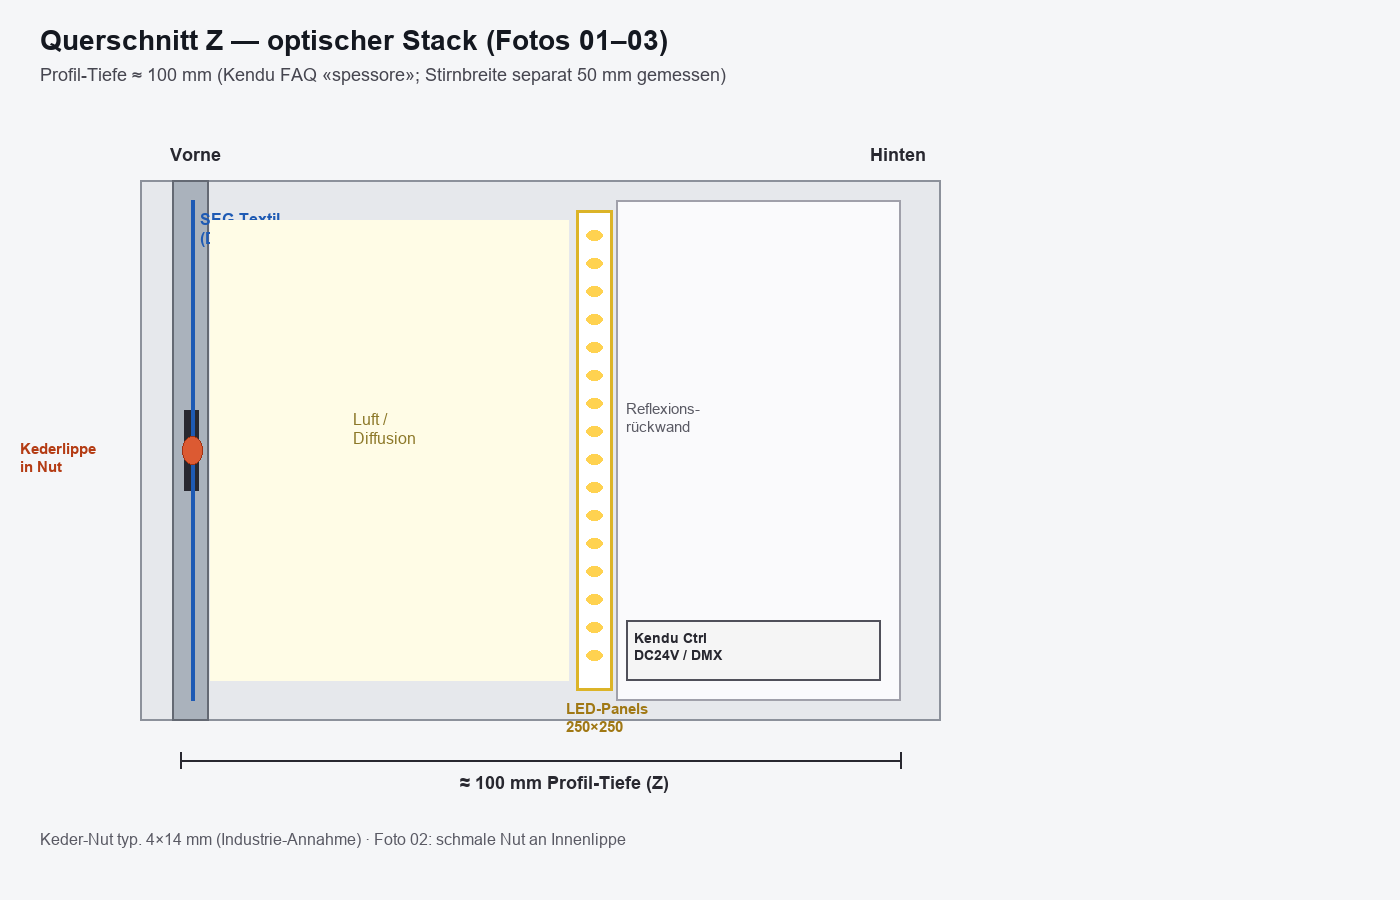
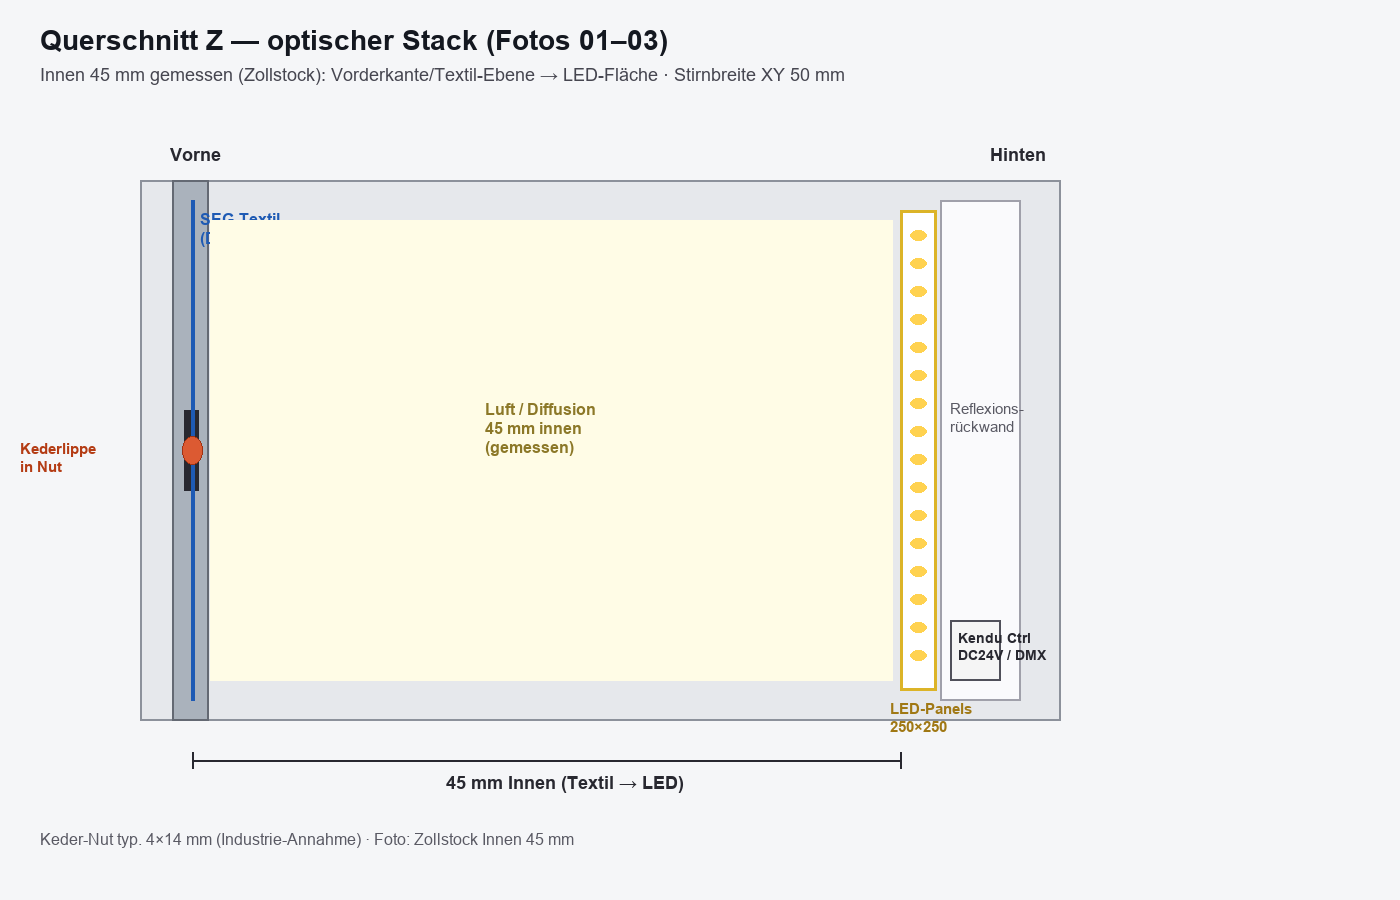
Set measured inner depth Textil-to-LED at 45 mm.
Replace FAQ ~100 mm Z estimate with Zollstock Innen 4.5 cm; refresh
3D schematics and Richnerstutz geometry docs.

diff --git a/WerbeLEDbox-CountDown/scripts/gen_lightbox_3d_schema.py b/WerbeLEDbox-CountDown/scripts/gen_lightbox_3d_schema.py
@@ -18,6 +18,7 @@ if str(PROJ) not in sys.path:
 
 from kendu_flowbox_spec import (  # noqa: E402
     FACE_MM,
+    INNER_DEPTH_MM,
     OUTER_MM,
     PROFILE_DEPTH_MM,
     PROFILE_FACE_W_MM,
@@ -96,28 +97,29 @@ def draw_cross_section(w: int = 1400, h: int = 900) -> Image.Image:
     d.text((40, 24), "Querschnitt Z — optischer Stack (Fotos 01–03)", fill=(20, 24, 32), font=font(28, True))
     d.text(
         (40, 64),
-        f"Profil-Tiefe ≈ {PROFILE_DEPTH_MM:.0f} mm (Kendu FAQ «spessore»; Stirnbreite separat {PROFILE_FACE_W_MM:.0f} mm gemessen)",
+        f"Innen {INNER_DEPTH_MM:.0f} mm gemessen (Zollstock): Vorderkante/Textil-Ebene → LED-Fläche · Stirnbreite XY {PROFILE_FACE_W_MM:.0f} mm",
         fill=(70, 70, 80),
         font=font(18),
     )
 
-    # Draw a horizontal section through left profile + face
-    # Coordinates: left = front (viewer), right = back
+    # Draw a horizontal section: left = front (viewer), right = back
+    # Scale so measured 45 mm cavity fills most of the diagram depth
     front_x = 180
     depth_px = 720
-    scale_z = depth_px / PROFILE_DEPTH_MM
+    scale_z = depth_px / INNER_DEPTH_MM
     top = 180
     bot = 720
     mid = (top + bot) // 2
 
-    # Aluminium profile U-ish: front lip, outer wall, back
     alu = (170, 178, 188)
-    d.rectangle([front_x - 40, top, front_x + depth_px + 40, bot], fill=(230, 232, 236), outline=(140, 145, 155), width=2)
+    # Cavity extent (front lip → LED)
+    led_x = front_x + int(INNER_DEPTH_MM * scale_z)
+    back_x = led_x + 120  # panel + reflector schematic behind LED face
+
+    d.rectangle([front_x - 40, top, back_x + 40, bot], fill=(230, 232, 236), outline=(140, 145, 155), width=2)
 
     # Front face rim + keder groove
-    lip_w = int(PROFILE_FACE_W_MM * 0.6)  # schematic
     d.rectangle([front_x - 8, top, front_x + 28, bot], fill=alu, outline=(100, 105, 115), width=2)
-    # Keder channel notch
     groove_y0 = mid - 40
     groove_y1 = mid + 40
     d.rectangle([front_x + 4, groove_y0, front_x + 18, groove_y1], fill=(40, 40, 48))
@@ -131,10 +133,14 @@ def draw_cross_section(w: int = 1400, h: int = 900) -> Image.Image:
     d.ellipse([front_x + 2, mid - 14, front_x + 22, mid + 14], fill=(220, 90, 50), outline=(160, 50, 20))
     d.text((front_x - 160, mid - 10), "Kederlippe\nin Nut", fill=(180, 60, 20), font=font(15, True))
 
-    # Air / diffusion gap
-    led_x = front_x + int(PROFILE_DEPTH_MM * 0.55 * scale_z)
+    # Air / diffusion gap = measured Innen 45 mm
     d.rectangle([front_x + 30, top + 40, led_x - 8, bot - 40], fill=(255, 252, 230))
-    d.text(((front_x + 30 + led_x) // 2 - 40, mid - 40), "Luft /\nDiffusion", fill=(140, 120, 40), font=font(16))
+    d.text(
+        ((front_x + 30 + led_x) // 2 - 70, mid - 50),
+        f"Luft / Diffusion\n{INNER_DEPTH_MM:.0f} mm innen\n(gemessen)",
+        fill=(140, 120, 40),
+        font=font(16, True),
+    )
 
     # LED panel plane
     d.rectangle([led_x, top + 30, led_x + 36, bot - 30], fill=(255, 255, 255), outline=(220, 180, 40), width=3)
@@ -142,32 +148,30 @@ def draw_cross_section(w: int = 1400, h: int = 900) -> Image.Image:
         d.ellipse([led_x + 10, y, led_x + 26, y + 10], fill=(255, 210, 80))
     d.text((led_x - 10, bot - 20), "LED-Panels\n250×250", fill=(160, 120, 20), font=font(15, True))
 
-    # White reflector / back
-    back_x = front_x + depth_px
+    # White reflector / back behind LEDs
     d.rectangle([led_x + 40, top + 20, back_x, bot - 20], fill=(250, 250, 252), outline=(160, 160, 170), width=2)
     d.text((led_x + 50, mid - 50), "Reflexions-\nrückwand", fill=(90, 90, 100), font=font(15))
 
-    # Controllers at bottom of section
     d.rectangle([led_x + 50, bot - 100, back_x - 20, bot - 40], fill=(245, 245, 245), outline=(80, 80, 90), width=2)
     d.text((led_x + 58, bot - 90), "Kendu Ctrl\nDC24V / DMX", fill=(40, 40, 48), font=font(14, True))
 
     d.text((back_x - 30, top - 36), "Hinten", fill=(40, 40, 48), font=font(18, True))
 
-    # Depth dimension
+    # Depth dimension: front → LED (= Innen 45 mm)
     y_dim = bot + 40
-    d.line([front_x, y_dim, back_x, y_dim], fill=(40, 40, 48), width=2)
-    d.line([front_x, y_dim - 8, front_x, y_dim + 8], fill=(40, 40, 48), width=2)
-    d.line([back_x, y_dim - 8, back_x, y_dim + 8], fill=(40, 40, 48), width=2)
+    d.line([front_x + 12, y_dim, led_x, y_dim], fill=(40, 40, 48), width=2)
+    d.line([front_x + 12, y_dim - 8, front_x + 12, y_dim + 8], fill=(40, 40, 48), width=2)
+    d.line([led_x, y_dim - 8, led_x, y_dim + 8], fill=(40, 40, 48), width=2)
     d.text(
-        ((front_x + back_x) // 2 - 80, y_dim + 12),
-        f"≈ {PROFILE_DEPTH_MM:.0f} mm Profil-Tiefe (Z)",
+        ((front_x + 12 + led_x) // 2 - 100, y_dim + 12),
+        f"{INNER_DEPTH_MM:.0f} mm Innen (Textil → LED)",
         fill=(40, 40, 48),
         font=font(18, True),
     )
 
     d.text(
         (40, h - 70),
-        f"Keder-Nut typ. {KEDER_GROOVE_W_MM:.0f}×{KEDER_GROOVE_D_MM:.0f} mm (Industrie-Annahme) · Foto 02: schmale Nut an Innenlippe",
+        f"Keder-Nut typ. {KEDER_GROOVE_W_MM:.0f}×{KEDER_GROOVE_D_MM:.0f} mm (Industrie-Annahme) · Foto: Zollstock Innen {INNER_DEPTH_MM:.0f} mm",
         fill=(90, 90, 100),
         font=font(16),
     )

diff --git a/WerbeLEDbox-CountDown/kendu_flowbox_spec.py b/WerbeLEDbox-CountDown/kendu_flowbox_spec.py
@@ -5,11 +5,11 @@ Measured XY (2026-07-22):
 - Outer frame: **2100 × 2100 mm**
 - Face rim / Profil-Stirnbreite: **50 mm** → print/LED face **2000 × 2000 mm**
 
-Photo + Kendu geometry (Z / depth):
+Photo + measured Z / depth:
 - True **backlit** stack (LEDs on rear plane, not edge-lit)
 - SEG keder groove on the **front inner lip** of the aluminium profile
-- Kendu FAQ «profile width/spessore» = **~100 mm depth** (Z), distinct from our
-  measured 50 mm face rim — see GEOMETRIE-3D.md
+- **Innen 45 mm** measured (Zollstock): front lip / textile plane → LED panel face
+- Face rim 50 mm (XY) remains distinct from this Z cavity — see GEOMETRIE-3D.md
 
 Logical content grid (AnkerPI02 custom WS2812 retrofit):
 
@@ -27,14 +27,17 @@ PROFILE_W_MM = PROFILE_FACE_W_MM  # back-compat: generators mean face rim
 OUTER_MM = 2100.0
 MODULE_PITCH_MM_CONFIRMED = 250.0
 
-# --- Z / depth (photo + Kendu FAQ; confirm with side measurement) ---
-# Italian FAQ: «Che spessore ha il profilo?» → 100 mm (= box depth, not face rim)
-PROFILE_DEPTH_MM = 100.0  # front textile plane → back of profile (typical Flowbox)
-PROFILE_DEPTH_SOURCE = "kendu-faq-spessore + photo backlit stack"
+# --- Z / depth (measured 2026-07-22, Zollstock photos «Innen 4.5 cm») ---
+# Optically relevant cavity: front inner lip (≈ textile / keder plane) → LED face
+INNER_DEPTH_MM = 45.0  # measured
+LED_RECESS_MM = INNER_DEPTH_MM  # alias
+# Full outer profile depth may be slightly larger behind the LED plane; cavity is 45 mm.
+PROFILE_DEPTH_MM = INNER_DEPTH_MM  # use measured cavity for schematics / light path
+PROFILE_DEPTH_SOURCE = "measured-innen-45mm-zollstock"
 
-# Optical stack (front → back), qualitative from photos 01–03
+# Optical stack (front → back), from photos + measurement
 # 1) SEG textile in keder groove (front lip)
-# 2) air / diffusion gap
+# 2) air / diffusion gap ≈ 45 mm
 # 3) LED panel plane (8×8 × 250 mm) on white reflector
 # 4) back braces / controllers (Kendu CH1–4, DC 24V, DMX)
 

diff --git a/Richnerstutz-Bespannung-Paket/06-fotos-vom-rahmen/GEOMETRIE-3D.md b/Richnerstutz-Bespannung-Paket/06-fotos-vom-rahmen/GEOMETRIE-3D.md
@@ -2,47 +2,33 @@
 
 Schemata: `schema-front-xy.png` · `schema-querschnitt-z.png` · `schema-3d-geometrie.png`
 
-## Zwei verschiedene «Profil»-Maße (nicht verwechseln)
+## Maße
 
 | Größe | Wert | Bedeutung | Quelle |
 |-------|------|-----------|--------|
-| **Stirnbreite** (XY) | **50 mm** | Rahmenrand in der Frontansicht; Außen − Fläche | gemessen: (2100−2000)/2 |
-| **Profil-Tiefe** (Z) | **≈ 100 mm** | Bautiefe vorne→hinten («spessore») | Kendu-FAQ + Foto-Stack |
+| **Stirnbreite** (XY) | **50 mm** | Rahmenrand in der Frontansicht | gemessen: (2100−2000)/2 |
+| **Innen** (Z) | **45 mm** | Vorderkante / Textil-Ebene → LED-Oberfläche | Zollstock-Fotos «Innen 4.5 cm» |
 | Außenmaß XY | **2100 × 2100 mm** | inkl. Stirnbreite | gemessen |
 | Druck-/LED-Fläche XY | **2000 × 2000 mm** | innen, 8×8 Panels | gemessen |
-| LED-Panel | **250 × 250 mm** | flächige Module auf Rückwand | gemessen |
+| LED-Panel | **250 × 250 mm** | Module auf Rückwand («REMBRANDT») | gemessen |
 
-Früher fälschlich: Kendu-FAQ «profile width 100 mm» als Stirnbreite gelesen.  
-Italienische FAQ stellt klar: *spessore* = Dicke/Tiefe ≈ 100 mm. Unsere **50 mm** sind die sichtbare Stirnbreite.
+**Wichtig:** Die optisch relevante Diffusionsstrecke ist **45 mm innen**, nicht die frühere FAQ-Schätzung ~100 mm Profil-Gesamttiefe.
 
-## Optischer Stack (Vorne → Hinten) — aus Fotos 01–03
+## Optischer Stack (Vorne → Hinten)
 
 ```
 [ Betrachter ]
      │
      ▼
-1. SEG-Textil (Druck) — in Kedernut der Profil-Innenlippe eingespannt
-2. Kederschienenlippe (Silikon/Flachkeder) in umlaufender Nut (Foto 02, Gehrung)
-3. Luft- / Diffusionsstrecke innerhalb der Profil-Tiefe
-4. LED-Panel-Ebene — 8×8 × 250 mm, dicht gestoßen, weisse Reflexionsfläche (Foto 01/02)
-5. Rückwand / Verstrebungen + Kendu-Controller (DC 24V, DMX, CH1–4) (Foto 03)
+1. SEG-Textil (Druck) — in Kedernut der Profil-Innenlippe
+2. Kederschienenlippe in umlaufender Nut
+3. Luft- / Diffusionsstrecke = **45 mm** (gemessen)
+4. LED-Panel-Ebene — 8×8 × 250 mm
+5. Reflexionsrückwand / Verstrebungen + Kendu-Controller
 ```
 
-### Was die Fotos klar zeigen
+## Konsequenzen für Druck / Licht
 
-1. **Gesamtansicht:** Freistehender Alu-Rahmen, volle Matrix sichtbar → Textil abgenommen; echte **Backlit**-Anordnung (LEDs auf der Rückfläche, nicht nur Randlicht).
-2. **Ecke:** Gehrung 45°, schmale Kedernut an der **vorderen Innenlippe**; LED-Platten enden knapp vor dem Profil → kleiner Spalt, in dem später das Tuch sitzt.
-3. **Controller/Diffusor:** Kendu-Hardware; hinter transluzentem Material bleibt das **LED-Punktraster** erkennbar → Blockout muss streulichtfest sein.
-
-## Konsequenzen für Druck / Bespannung
-
-- Drucksujet bemisst die **2000×2000 mm Fläche** (nicht 2100).
-- Keder greift in die Nut der **50-mm-Stirn** / vorderen Lippe; Zugabe laut Richnerstutz-Konfektion.
-- Lichtweg ≈ Profil-Tiefe minus Panel-/Textildicke → genug Raum für Diffusion, aber Hotspots bei zu transparentem Druck (Foto 03).
-- Totzone unten 250 mm bleibt XY-Maske auf derselben Textil-Ebene.
-
-## Offen / optional nachmessen
-
-- [ ] Profil-Tiefe Z exakt mit Massband von der Seite (`06-seite-tiefe.jpg`)
-- [ ] Kedernut-Querschnitt (Breite × Tiefe der Nut)
-- [ ] Abstand Textil-Ebene ↔ LED-Oberfläche (Diffusionsluft)
+- Lichtweg Textil↔LED nur **45 mm** → LED-Punktraster kann bei zu transparentem Druck sichtbar bleiben (Blockout kritisch).
+- Drucksujet: **2000×2000 mm** Fläche.
+- Keder an vorderer Nut; Stirnbreite **50 mm**.

diff --git a/Richnerstutz-Bespannung-Paket/01-anfrage/Anfrage-Richnerstutz.md b/Richnerstutz-Bespannung-Paket/01-anfrage/Anfrage-Richnerstutz.md
@@ -30,13 +30,13 @@ Am Standort **Hotel Anker, Rorschach** (Countdown-Bar / Sichtfenster zum Sanieru
 | Nennfläche (Sicht-/Leuchtfläche) | **2000 × 2000 mm** | 8×8 LED-Panels à 250×250 mm |
 | Außenmaß Rahmen | **2100 × 2100 mm** | gemessen |
 | Profil-Stirnbreite (XY) | **50 mm** | (2100−2000)/2 · Rahmen +5 cm |
-| Profil-Tiefe (Z) | **≈ 100 mm** | Kendu «spessore»; Backlit-Stack laut Fotos |
+| Innen Textil→LED (Z) | **45 mm** | Zollstock gemessen |
 | Konfektion | **Umlaufende Kederschienenlippe** (Silikon-/Flachkeder) | Einschub in die Profilnut, werkzeugloser Sujetwechsel |
 | Hinterleuchtung | Individuelle **LED-Matrix 64 × 64** hinter dem Textil | Custom-Retrofit, Zellpitch **31,25 mm** |
 | Totzone unten | **250 mm** (8/64 Zellen) | muss **vollständig lichtundurchlässig** gedruckt/gedeckt sein |
 | Einsatzort | Innen, dauerhaft sichtbar | Countdown bis geplantem Baubeginn 1. Oktober 2026 |
 
-Die Bespannung muss **passgenau** in die vorhandene Kederschiene des Rahmens einsetzbar sein. Anhand der Fotos ist der **3D-Aufbau** klar: Kendu-Rahmen mit Kedernut an der **vorderen Innenlippe**, flächigen LED-Modulen auf der **Rückwand** (Backlit) und Controllern (DC 24V / DMX). Stirnbreite gemessen **50 mm**, Profil-Tiefe typisch **≈ 100 mm** (Kendu spessore). Den exakten Keder-Querschnitt stimmen wir gerne anhand der Fotos bzw. einer Musterlippe ab.
+Die Bespannung muss **passgenau** in die vorhandene Kederschiene des Rahmens einsetzbar sein. Anhand der Fotos ist der **3D-Aufbau** klar: Kendu-Rahmen mit Kedernut an der **vorderen Innenlippe**, flächigen LED-Modulen auf der **Rückwand** (Backlit) und Controllern (DC 24V / DMX). Stirnbreite **50 mm**, Diffusionsstrecke innen **45 mm** (Textil-Ebene → LED, Zollstock). Den exakten Keder-Querschnitt stimmen wir gerne anhand der Fotos bzw. einer Musterlippe ab.
 
 ### 2. Gewünschte Leistung
 

diff --git a/Richnerstutz-Bespannung-Paket/06-fotos-vom-rahmen/FOTO-AUSWERTUNG.md b/Richnerstutz-Bespannung-Paket/06-fotos-vom-rahmen/FOTO-AUSWERTUNG.md
@@ -17,7 +17,7 @@ Vertiefung 3D: siehe **`GEOMETRIE-3D.md`** und Schemata `schema-*.png`
 2. **Aufbau:** Quadratischer Aluminium-Spannrahmen, silber/hell, freistehend auf Metallfuss.
 3. **Kederschiene:** Umlaufende Nut an der **vorderen Profil-Innenlippe** (SEG); Ecke auf Gehrung 45°.
 4. **Hinterleuchtung:** Flächige LED-Module auf der **Rückwand** (Backlit, nicht Edge-Lit); Module stoßen aneinander.
-5. **3D-Stack:** Textil vorne in der Nut → Luft/Diffusion → LED-Ebene → Reflexionsrückwand/Controller.
+5. **3D-Stack:** Textil vorne in der Nut → Luft/Diffusion **45 mm innen** → LED-Ebene → Reflexionsrückwand/Controller.
 6. **Diffusor-Hinweis:** LED-Punktraster scheint durch transluzentes Material → Blockout muss dicht sein.
 7. **Elektronik:** Kendu-Treiber am Rahmen (unterer Bereich / Querprofil).
 
@@ -29,7 +29,7 @@ Vertiefung 3D: siehe **`GEOMETRIE-3D.md`** und Schemata `schema-*.png`
 | Druck-/LED-Fläche | **2000 × 2000 mm** | XY |
 | Außenmaß Rahmen | **2100 × 2100 mm** | XY |
 | Profil-Stirnbreite | **50 mm** | XY (Rahmen +5 cm) |
-| Profil-Tiefe | **≈ 100 mm** | Z (Kendu «spessore», Foto-konsistent) |
+| Innen (Textil → LED) | **45 mm** | Z, Zollstock gemessen |
 | Content-Pitch | **31.25 mm** | XY (64×64) |
 
 ## Relevanz für Richnerstutz

diff --git a/WerbeLEDbox-CountDown/docs/Anfrage-Richnerstutz-Bespannung-Flowbox.md b/WerbeLEDbox-CountDown/docs/Anfrage-Richnerstutz-Bespannung-Flowbox.md
@@ -30,7 +30,7 @@ Am Standort **Hotel Anker, Rorschach** (Countdown-Bar / Sichtfenster zum Sanieru
 | Nennfläche (Sicht-/Leuchtfläche) | **2000 × 2000 mm** | 8×8 LED-Panels à 250×250 mm |
 | Außenmaß Rahmen | **2100 × 2100 mm** | gemessen |
 | Profil-Stirnbreite (XY) | **50 mm** | (2100−2000)/2 · Rahmen +5 cm |
-| Profil-Tiefe (Z) | **≈ 100 mm** | Kendu «spessore»; Backlit-Stack laut Fotos |
+| Innen Textil→LED (Z) | **45 mm** | Zollstock gemessen |
 | Konfektion | **Umlaufende Kederschienenlippe** (Silikon-/Flachkeder) | Einschub in die Profilnut, werkzeugloser Sujetwechsel |
 | Hinterleuchtung | Individuelle **LED-Matrix 64 × 64** hinter dem Textil | Custom-Retrofit (nicht Standard-Kendu-Animation), Zellpitch **31,25 mm** |
 | Totzone unten | **250 mm** (8/64 Zellen) | muss **vollständig lichtundurchlässig** gedruckt/gedeckt sein |

diff --git a/Richnerstutz-Bespannung-Paket/02-druckdaten/PRINT_SPEC.md b/Richnerstutz-Bespannung-Paket/02-druckdaten/PRINT_SPEC.md
@@ -1,14 +1,14 @@
 # Print-Spezifikation — Hotel Anker Countdown
 
-## Physik (gemessen + Foto-3D)
+## Physik (gemessen)
 - Druck-/LED-Fläche: **2000 × 2000 mm** (8×8 Panels à **250 × 250 mm**)
 - Profil-Stirnbreite (XY): **50 mm**
 - Außenmaß Rahmen: **2100 × 2100 mm** (= 2000 + 2×50)
-- Profil-Tiefe (Z): **≈ 100 mm** (Kendu spessore; Backlit-Stack laut Fotos)
+- Innen Textil→LED (Z): **45 mm** (Zollstock)
 - Content-Grid: **64 × 64** → Zellpitch **31.25 mm**
 - Totzone: untere **8/64** Zellen (= **250 mm**)
 
-Stack vorne→hinten: SEG-Textil in Kedernut → Diffusion → LED-Panels → Rückwand/Controller  
+Stack vorne→hinten: SEG-Textil in Kedernut → Diffusion **45 mm** → LED-Panels → Rückwand/Controller  
 Details: `Richnerstutz-Bespannung-Paket/06-fotos-vom-rahmen/GEOMETRIE-3D.md`
 
 ## Format

diff --git a/assets/kendu-flowbox-2m-print/PRINT_SPEC.md b/assets/kendu-flowbox-2m-print/PRINT_SPEC.md
@@ -1,14 +1,14 @@
 # Print-Spezifikation — Hotel Anker Countdown
 
-## Physik (gemessen + Foto-3D)
+## Physik (gemessen)
 - Druck-/LED-Fläche: **2000 × 2000 mm** (8×8 Panels à **250 × 250 mm**)
 - Profil-Stirnbreite (XY): **50 mm**
 - Außenmaß Rahmen: **2100 × 2100 mm** (= 2000 + 2×50)
-- Profil-Tiefe (Z): **≈ 100 mm** (Kendu spessore; Backlit-Stack laut Fotos)
+- Innen Textil→LED (Z): **45 mm** (Zollstock)
 - Content-Grid: **64 × 64** → Zellpitch **31.25 mm**
 - Totzone: untere **8/64** Zellen (= **250 mm**)
 
-Stack vorne→hinten: SEG-Textil in Kedernut → Diffusion → LED-Panels → Rückwand/Controller  
+Stack vorne→hinten: SEG-Textil in Kedernut → Diffusion **45 mm** → LED-Panels → Rückwand/Controller  
 Details: `Richnerstutz-Bespannung-Paket/06-fotos-vom-rahmen/GEOMETRIE-3D.md`
 
 ## Format
